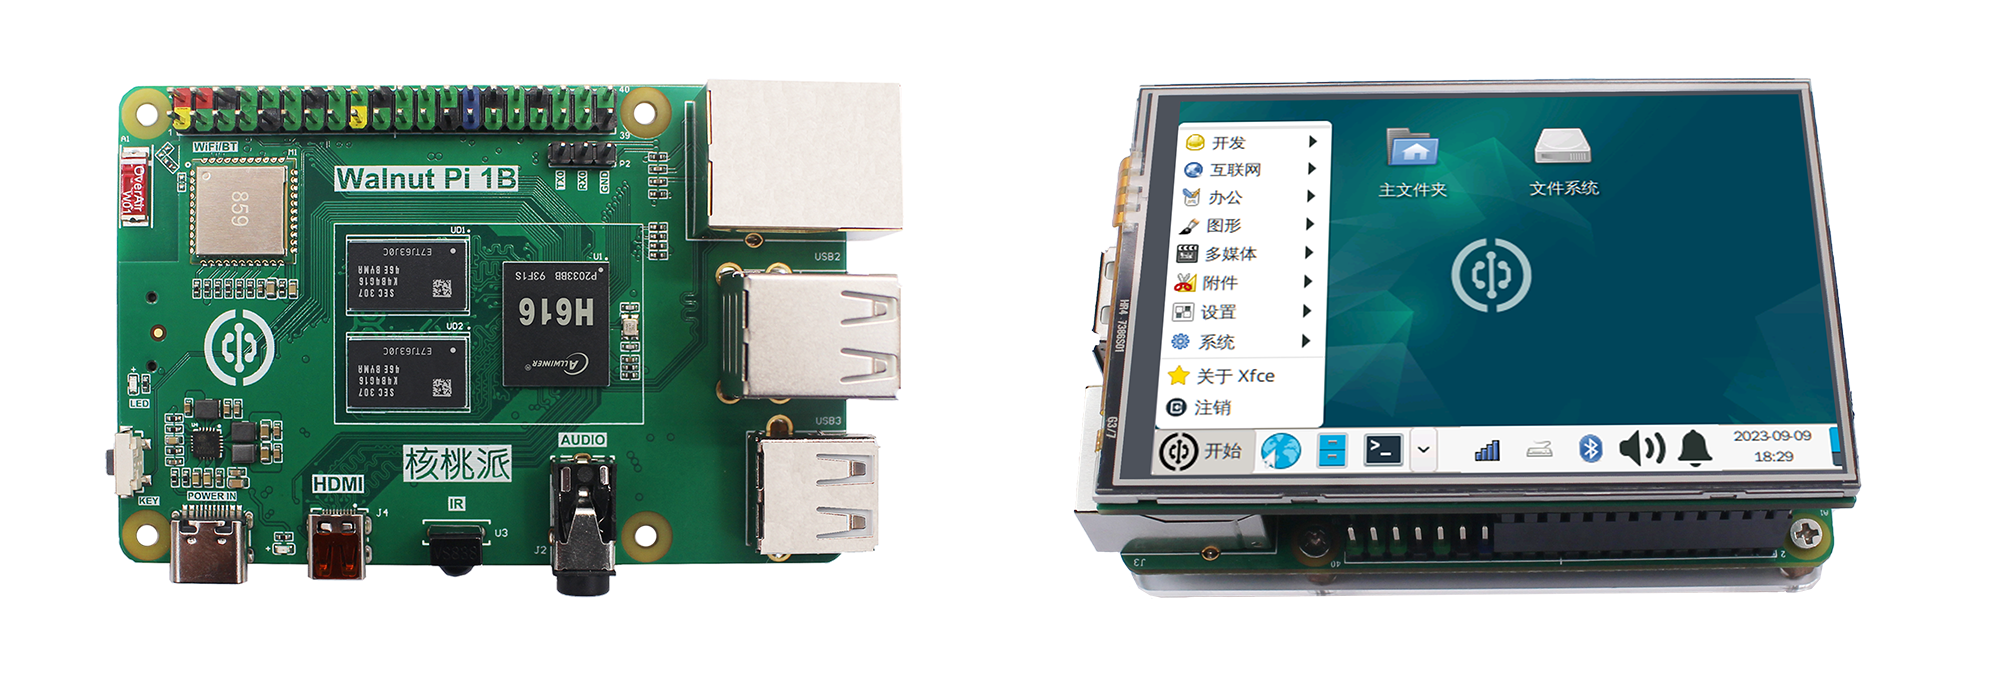
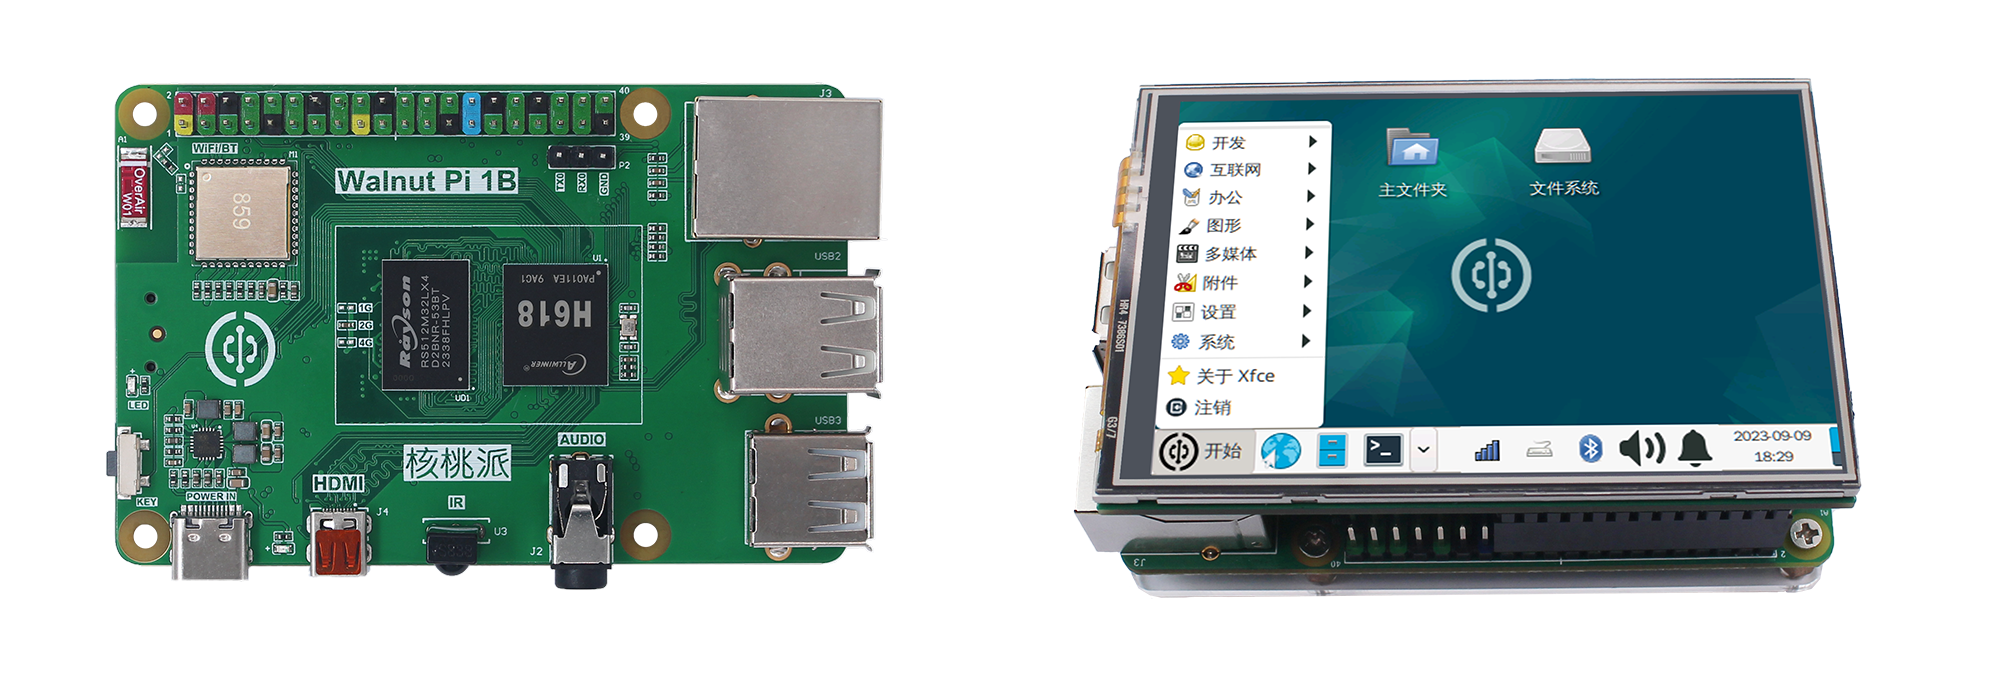
add H618

Changed region(s): [[0.031, 0.1243, 0.465, 0.9009]]

diff --git a/src/components/HomepageFeatures/index.js b/src/components/HomepageFeatures/index.js
@@ -7,7 +7,7 @@ const FeatureList = [
     title: '强势出圈',
     Svg: require('@site/static/img/walnutpi.svg').default,
     description: (
-      <>*全志H616四核Cortex-A53高性能处理器<br></br>
+      <>*全志H616/H618 四核Cortex-A53高性能处理器<br></br>
         *双频WiFi+蓝牙5.0<br></br>
         *尺寸兼容树莓派<br></br>
       </>

diff --git a/docs/getting_start/hw-parameter.md b/docs/getting_start/hw-parameter.md
@@ -6,17 +6,37 @@ sidebar_position: 1
 
 ## 功能描述
 
-核桃派1B基于全志H616四核64位Cortex-A53高性能处理器。
+核桃派1B基于全志H616/H618 四核64位Cortex-A53高性能处理器。
+
+**1G内存版本:**
 
 ![walnutpi](./img/hw-parameter/walnutpi_describe.png)
+
+**2G/4G内存版本:**
+
+![walnutpi](./img/hw-parameter/walnutpi_describe2.png)
+
+
+:::tip 提示
+
+全志H616和H618硬件和Linux驱动完全兼容，跑分性能基本无差异。
+
+![walnutpi](./img/hw-parameter/run.png)
+
+核桃派1B使用的DDR3内存峰值速度1800Mbps，LPDDR4内存峰值速度3733Mbps, 而H616/H618内存访问速度大约1000Mbps，并没达到两者的峰值速度。
+
+**因此核桃派1B不同内存版本在速度和性能上并无差异，系统和教程代码完全通用，请放心使用。**
+
+
+::: 
 
 ## 详细参数
 
 |  产品参数 |
 |  :---:  | ---  |
-| CPU  | 全志H616 64位/四核高性能Cortex-A53处理器，1.5GHz |
+| CPU  | 全志H616/H618 64位/四核高性能Cortex-A53处理器，1.5GHz |
 | GPU  | Mali G31 MP2<br></br>Supports OpenGL ES 1.0/2.0/3.2 、OpenCL 2.0|
-| 内存  | 1GB  (512M DDR3 x 2)| 
+| 内存  | ● 1GB  (512M DDR3 x 2)<br></br> ● 2GB  (LPDDR4)<br></br> ● 4GB  (LPDDR4)<br></br>| 
 | 存储  | ● MicroSD卡最大支持512G<br></br>● 预留SPI Flash（空贴）|
 | 无线网络  | 双频WiFi（2.4G & 5G）+ 蓝牙5.0 |
 | 有线网络  | 百兆以太网口 |

diff --git a/docs/getting_start/hw-detail.md b/docs/getting_start/hw-detail.md
@@ -8,7 +8,10 @@ sidebar_position: 2
 
 ## CPU
 
-跟普通电脑一样，核桃派硬件是由众多组件组成，每个组件都为其整体运行扮演重要角色，首先来看看CPU。核桃派1B使用全志H616四核高性能Cortex-A53处理器，主频可达1.5GHz。
+跟普通电脑一样，核桃派硬件是由众多组件组成，每个组件都为其整体运行扮演重要角色，首先来看看CPU。核桃派1B使用全志H616/H618 四核高性能Cortex-A53处理器，主频可达1.5GHz。
+
+**全志H616和H618硬件和Linux驱动完全兼容，跑分性能基本无差异。**
+
 ![cpu](./img/hw-detail/cpu.png)
 
 
@@ -18,7 +21,7 @@ sidebar_position: 2
 
 当你使用核桃派时，RAM在保持你的使用和运行，只有当你保存相关文件时才会保存到 microSD 卡。这些组件在一起形成核桃派的易失性和非易失性记忆：RAM 是掉电不保存，而 microSD 卡是掉电保存的。
 
-核桃派1B当前提供1GB内存版本（由2片512MB DD3组成）。
+**核桃派1B当前提供1GB内存版本（由2片512MB DD3组成），2G/4G版本则使用单片LPDDR4。而H616/H618内存访问速度大约1000Mbps，并没达到两者的峰值速度，因此速度一样。**
 ![ram](./img/hw-detail/ram.png)
 
 

diff --git a/docs/directory.md b/docs/directory.md
@@ -38,6 +38,7 @@ sidebar_position: 0
     - [U盘挂载](./os_software/usb_disk.md)
     - [USB摄像头](./os_software/usb_cam.md)
     - [3.5寸触摸显示屏](./os_software/3.5_LCD.md)
+    - [config.txt](./os_software/config.txt.md)
 
 - **GPIO应用**
 
@@ -119,13 +120,14 @@ sidebar_position: 0
 
         - [绘制图像](./pyQT5/paint/image.md) 
 
-- **Linux系统镜像编译**
+- **Linux系统编译**
 
     - [使用walnutpi-build构建镜像系统](./linux_build/walnutpi-build.md) 
     - [编译uboot](./linux_build/uboot.md) 
     - [编译linux](./linux_build/linux.md) 
     - [编译debian](./linux_build/debian.md) 
     - [交叉编译器安装](./linux_build/cross_compiler.md) 
+    - [在开发板上编译驱动](./linux_build/compile_driver.md) 
 
 - [**更新说明**](./update.md)
 

diff --git a/docs/linux_build/walnutpi-build.md b/docs/linux_build/walnutpi-build.md
@@ -37,14 +37,12 @@ sudo ./build.sh
 ```
 ![运行build.sh](img/run_build.gif)
 
+出来的第一个界面是选择开发板，目前有两个，带legacy的是编译walnutpi-1b最初适配的linux5.16版本，不带的是编译最新的linux6.1版本
+
 操作方式如下
 - 按`Esc键`退出
 - 按`上下方向键`选择选项
 - 按`回车键`确认
-
-出来的第一个界面是选择开发板，目前有两个，带legacy的是编译walnutpi-1b最初适配的linux5.16版本，不带的是编译最新的linux6.1版本
-
-![choose](img/choose_board.png)
 
 接下来第二个界面是选择编译哪个组件，构建一个系统镜像文件，或是想选择单独编译uboot linux rootfs。
 

diff --git a/docs/os_software/cpu_id.md b/docs/os_software/cpu_id.md
@@ -4,7 +4,7 @@ sidebar_position: 22
 
 # 主控ID号
 
-核桃派1B的主控是全志H616，每个芯片的chipid都是唯一的，用户可以通过下面指令获取chipid来区分不同开发板。
+核桃派1B的主控是全志H616/H618，每个芯片的chipid都是唯一的，用户可以通过下面指令获取chipid来区分不同开发板。
 
 ```bash
 cat /sys/class/sunxi_info/sys_info | grep "chipid"

diff --git a/docs/os_software/core_temp.md b/docs/os_software/core_temp.md
@@ -4,7 +4,7 @@ sidebar_position: 21
 
 # 主控温度信息
 
-核桃派1B的H616主控内置4个温度传感器，分别是：
+核桃派1B的H616/H618主控内置4个温度传感器，分别是：
 - `sensor0`: CPU温度
 - `sensor1`: GPU温度
 - `sensor2`: VE(Video Encoding)温度

diff --git a/README.md b/README.md
@@ -19,10 +19,15 @@
 git clone https://github.com/walnutpi/walnutpi_wiki.git
 ```
 
-### 运行
+### 首次安装依赖库 
 
 ```
 cd walnutpi_wiki
+npm install
+```
+
+### 运行
+```
 npm run start
 ```
 
